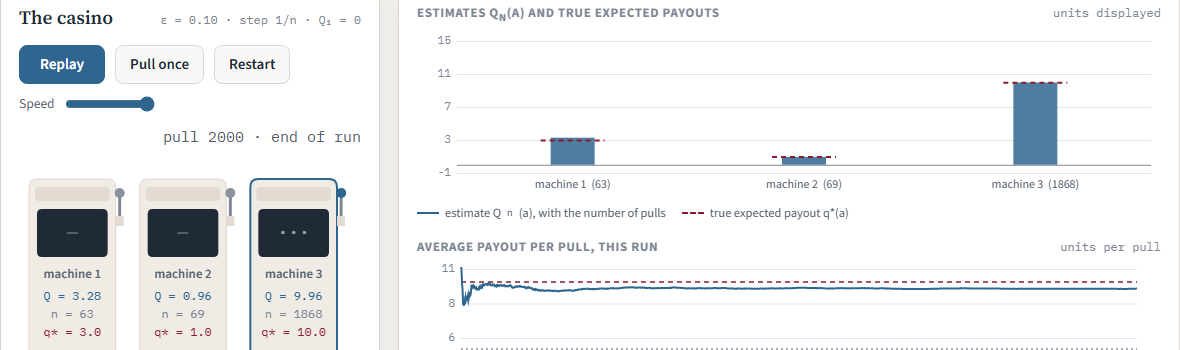
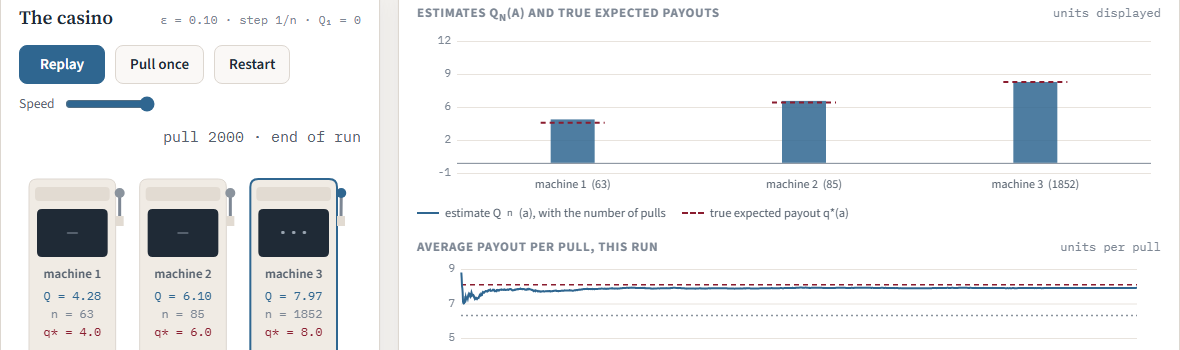
Slot Machine Lab: open on three machines with close payouts (4, 6, 8)
The machines of the lesson (3, 1, 10) stay available; the notes are rewritten for the
new default, with the numbers checked against an independent Julia run.

diff --git a/files/sim/bandit-lab.html b/files/sim/bandit-lab.html
@@ -208,9 +208,10 @@
       <div class="row">
         <label class="pick">Casino
           <select id="casino">
-            <option value="lesson">The three machines of the lesson</option>
-            <option value="close">Three machines, close payouts</option>
-            <option value="ten">Ten machines</option>
+            <option value="close" selected>Three machines, close payouts: 4, 6, 8</option>
+            <option value="lesson">The three machines of the lesson: 3, 1, 10</option>
+            <option value="random3">Three machines, payouts drawn at random</option>
+            <option value="ten">Ten machines, payouts drawn at random</option>
           </select>
         </label>
         <button id="redraw">Another casino</button>
@@ -300,8 +301,9 @@
           the best machine settles at 90% plus a third of 10%, about 93%, and not at 100%.</li>
         <li><b>&epsilon; = 0.01 is slow and ends up better.</b> It needs many more pulls to try every machine
           enough times, but once the estimates are right it wastes only 1% of the pulls. In the averaged
-          panel its payout curve starts below the one of &epsilon; = 0.1 and crosses it: which value of &epsilon;
-          is better depends on how long you plan to play.</li>
+          panel its payout curve starts well below the one of &epsilon; = 0.1 and catches up with it towards
+          the end of the thousand pulls; over 2000 pulls it puts 99% of them on the best machine against
+          94%. Which value of &epsilon; is better depends on how long you plan to play.</li>
         <li><b>A fixed &epsilon; is not the best one can do: decrease it as the estimates settle.</b> A
           constant &epsilon; keeps paying for exploration after it has stopped being useful, which is why
           &epsilon; = 0.1 never passes 93%. Tick "let &epsilon; decrease": the agent explores a lot at first, when the
@@ -313,15 +315,17 @@
           time, the agent would need to keep exploring, and a constant &epsilon; is the usual choice.</li>
         <li><b>Optimism replaces exploration.</b> Put &epsilon; back to zero and raise the initial estimate
           to 20, above any payout. Every machine disappoints the agent in turn, so every machine is tried,
-          and the greedy agent ends on the best one with no random pulls at all. This works because the
-          machines do not change; it would not help if they did.</li>
+          and the greedy agent ends on the best one in about nine runs out of ten, with no random pulls
+          at all; on the machines of the lesson, further apart, in practically all of them. This works
+          because the machines do not change; it would not help if they did.</li>
         <li><b>1/n or a constant step.</b> With the step 1/n the estimate is the sample average and it
           settles down, because each new number weighs less and less. With a constant &alpha; the estimate
           keeps moving by a fraction &alpha; of the last surprise and never settles; what it buys is the
           ability to follow a machine whose payout drifts, which the casino of this page does not do.</li>
-        <li><b>Close payouts are hard.</b> Choose the casino with close payouts: the difference between
-          machines is of the order of the noise of a single pull, and even 2000 pulls can leave the
-          estimates in the wrong order.</li>
+        <li><b>The machines of the lesson are the easy case.</b> Switch to them, 3, 1 and 10: the best one
+          stands out after a handful of pulls and every method finds it quickly. Choose instead the machines
+          drawn at random, whose expected payouts can differ by less than the noise of a single pull: even
+          2000 pulls can leave the estimates in the wrong order.</li>
       </ul>
     </div>
     <div>
@@ -340,9 +344,10 @@
         the expected value shown as a dashed line and a spread of its own; the agent sees the numbers,
         never the distributions. "Total paid" is the return, the sum of the rewards, which is what the
         agent is trying to maximize.</p>
-      <p>The three machines of the lesson pay 3, 1 and 10 on average; the other casinos draw the expected
-        payouts at random. The averaged panel repeats the run 500 times with fresh luck, keeping the
-        machines fixed, and plots the mean at every pull.</p>
+      <p>The page opens on three machines paying 4, 6 and 8 on average, each with a spread of 2: closer
+        than the 3, 1 and 10 of the lesson, which are one click away, and therefore harder to tell apart.
+        The other casinos draw the expected payouts at random. The averaged panel repeats the run 500 times
+        with fresh luck, keeping the machines fixed, and plots the mean at every pull.</p>
     </div>
   </section>
 
@@ -370,8 +375,9 @@ Rng.prototype.int = function (n) { return Math.floor(this.next() * n) % n; };
    means[a], sds[a]: the distributions of the machines (unknown to the agent).  */
 function makeBandit(kind, rng) {
   var means = [], sds = [], k, a;
-  if (kind === "lesson") { means = [3, 1, 10]; sds = [2, 1, 3]; }
-  else if (kind === "close") { k = 3; for (a = 0; a < k; a++) { means.push(4 + 2 * rng.next()); sds.push(2); } }
+  if (kind === "close") { means = [4, 6, 8]; sds = [2, 2, 2]; }
+  else if (kind === "lesson") { means = [3, 1, 10]; sds = [2, 1, 3]; }
+  else if (kind === "random3") { k = 3; for (a = 0; a < k; a++) { means.push(3 + 5 * rng.next()); sds.push(2); } }
   else { k = 10; for (a = 0; a < k; a++) { means.push(10 * rng.next()); sds.push(1.5 + 2 * rng.next()); } }
   var best = 0;
   for (a = 1; a < means.length; a++) if (means[a] > means[best]) best = a;
@@ -436,7 +442,7 @@ function averagedRun(bandit, eps, q0, stepMode, alpha, runs, T, seed, decay) {
   var RUN_T = 2000, AVG_RUNS = 500, AVG_T = 1000;
   var SPEEDS = [1, 2, 5, 10, 20, 50, 100, 200, 500, 1000, 2000];
 
-  var P = { eps: 0.1, q0: 0, stepMode: "avg", alpha: 0.1, casino: "lesson", showTrue: true, speed: 10, decay: false };
+  var P = { eps: 0.1, q0: 0, stepMode: "avg", alpha: 0.1, casino: "close", showTrue: true, speed: 10, decay: false };
   var casinoSeed = 20261029, luckSeed = 7;
   var bandit, agent, rng, hist, last, playing = true, acc = 0, lastTs = 0, anim = null;
 
